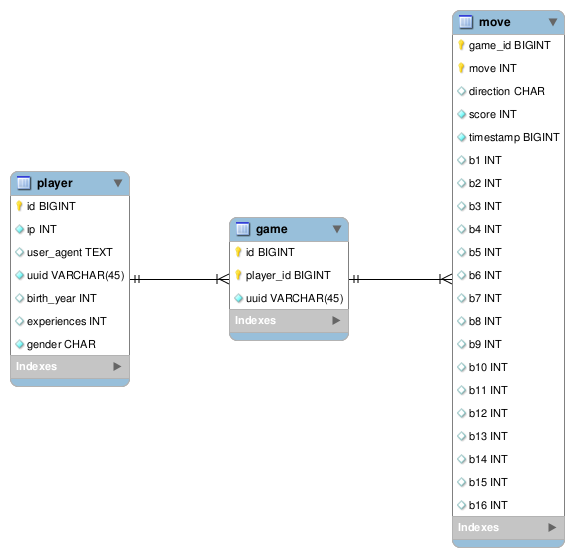
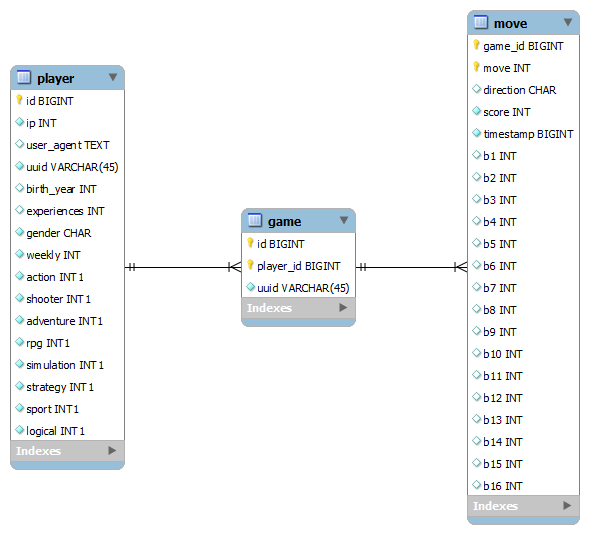
Add record for favorite genres and time spend by gaming

Changed region(s): [[0.0, 0.0, 1.0, 0.9888]]

diff --git a/js/game_manager.js b/js/game_manager.js
@@ -1,12 +1,4 @@
 function GameManager(size, InputManager, Actuator, StorageManager) {
-alert('Funguje:\n' +
-      '	odosielanie noveho hraca na server\n' +
-      '	ziskanie uuid noveho hraca\n' +
-      '	ulozenie/nacitanie hraca, jeho hry, score a pod. lokalne\n' +
-      '	odosielanie hry a tahov na server\n' +
-      '	stopovanie casu za ktory hrac vykonal tah\n' +
-//      'Nefunguje:\n' +
-      '	podpora viacerych hracov\n');
   this.size           = size; // Size of the grid
   this.inputManager   = new InputManager;
   this.storageManager = new StorageManager;
@@ -208,6 +200,8 @@ GameManager.prototype.showPlayerCreator = function () {
   this.p2 = document.createElement("p");
   this.p3 = document.createElement("p");
   this.p4 = document.createElement("p");
+  this.p5 = document.createElement("p");
+  this.p6 = document.createElement("p");
 
   this.p0.style.margin = '20px';
   this.p0.style.color = 'rgb(192,192,192)';
@@ -218,17 +212,42 @@ GameManager.prototype.showPlayerCreator = function () {
   this.p2.addEventListener('mouseout', function() {popdown();}, false);
   this.p3.addEventListener('mouseover', function() {popup('Your gender will be recorded for statistic purpose.');}, false);
   this.p3.addEventListener('mouseout', function() {popdown();}, false);
-  this.p4.addEventListener('mouseover', function() {popup('How many experience do you have with the 2048 game?');}, false);
+  this.p4.addEventListener('mouseover', function() {popup('How much time you spend playing video games weekly?');}, false);
   this.p4.addEventListener('mouseout', function() {popdown();}, false);
+  this.p5.addEventListener('mouseover', function() {popup('Please, select game genres, that you play the most.');}, false);
+  this.p5.addEventListener('mouseout', function() {popdown();}, false);
+  this.p6.addEventListener('mouseover', function() {popup('How many experience do you have with the 2048 game?');}, false);
+  this.p6.addEventListener('mouseout', function() {popdown();}, false);
 
-  this.p0.innerHTML = 'This version of 2048 game was created for the purpose of my Bachelor thesis. Your gameplay will be recorded and analyze. Please, befor you start, tell us something about You:';
+  this.p0.innerHTML = 'This version of 2048 game was created for the purpose of my Bachelor thesis. Your gameplay will be recorded and analyze. Please, before you start, tell us something about You:';
   this.p1.innerHTML = '<b>Your name:</b><br /><input type="text" name="name" placeholder="Your Name" />';
   this.p2.innerHTML = '<b>Your birth year:</b><br /><select name="birth">'+ageOptions+'</select>';
   this.p3.innerHTML = '<b>Gender:</b><br /><select name="gender"> <option value="m">Male</option> <option value="f">Female</option> </select>';
-  this.p4.innerHTML = '<b>Your experience with 2048 game:</b><br /><select name="experience">' +
+  this.p4.innerHTML = '<b>How much time you spend playing videogames weekly:</b><br /><select name="weekly">' + 
+                          '<option value="0">I don\'t play games</option>' +
+                          '<option value="1">Less than 2 hours</option>' +
+                          '<option value="2">Between 2-10 hours</option>' +
+                          '<option value="3">Between 10-20 hours</option>' +
+                          '<option value="4">Between 20-40 hours</option>' +
+                          '<option value="5">More than 40 hours</option> </select>';
+  //4 kolko casu travia hranim
+  //5ake hry hraju
+	  this.p5.innerHTML = '<b>Select your favorite genres:</b><br />' +
+                          '<table style="margin-left:auto; margin-right:auto; text-align:left;">' +
+                          '<tr><td><label><input type="checkbox" name="g0" value="1">Action</label></td>' +
+                          '<td>    <label><input type="checkbox" name="g1" value="1">Shooters</label></td></tr>' +
+                          '<tr><td><label><input type="checkbox" name="g2" value="1">Adventure</label></td>' +
+                          '<td>    <label><input type="checkbox" name="g3" value="1">Role-playing (RPG)</label></td></tr>' +
+                          '<tr><td><label><input type="checkbox" name="g4" value="1">Simulations</label></td>' +
+                          '<td>    <label><input type="checkbox" name="g5" value="1">Strategy</label></td></tr>' +
+                          '<tr><td><label><input type="checkbox" name="g6" value="1">Sports</label></td>' +
+                          '<td>    <label><input type="checkbox" name="g7" value="1">Logical</label></td></tr>' +
+                          '</table>';
+
+  this.p6.innerHTML = '<b>Your experience with 2048 game:</b><br /><select name="experience">' +
                           '<option value="0">[0] I Never hear of it before.</option>' +
-                          '<option value="1">[1] I know it, but newer played it.</option>' +
-                          '<option value="2">[2] I newer made it to 2048.</option>' +
+                          '<option value="1">[1] I know it, but never played it.</option>' +
+                          '<option value="2">[2] I never made it to 2048.</option>' +
                           '<option value="3">[3] I reached 2048 few times.</option>' +
                           '<option value="4">[4] I made it up to 4096 or 8192.</option> </select>';
 //  this.p3.innerHTML = '<b>Your experience with 2048:</b><br /><select name="experience"> <option value="0">0</option> <option value="1">1</option> <option value="2">2</option> <option value="3">3</option> <option value="4">4</option> </select>';
@@ -239,6 +258,8 @@ GameManager.prototype.showPlayerCreator = function () {
   this.form.appendChild(this.p2);
   this.form.appendChild(this.p3);
   this.form.appendChild(this.p4);
+  this.form.appendChild(this.p5);
+  this.form.appendChild(this.p6);
   this.form.appendChild(this.submit);
 } 
 
@@ -247,8 +268,25 @@ GameManager.prototype.submitPlayer = function (e) {
   e.stopPropagation();
 
   gm.showWaiting("Wait a second, creating  new player");
+  
+  var exp = gm.form.elements['experience'].value;
+  var birth = gm.form.elements['birth'].value;
+  var gender = gm.form.elements['gender'].value;
+  var weekly = gm.form.elements['weekly'].value;
+
+  var genres = {
+    'action':          gm.form.elements['g0'].checked,
+    'shooter':         gm.form.elements['g1'].checked,
+    'adventure':       gm.form.elements['g2'].checked,
+    'rpg':             gm.form.elements['g3'].checked,
+    'simulation':      gm.form.elements['g4'].checked,
+    'strategy':        gm.form.elements['g5'].checked,
+    'sport':           gm.form.elements['g6'].checked,
+    'logical':         gm.form.elements['g7'].checked
+  };
+ 
   var ajaxManager = new AjaxManager;
-  ajaxManager.newPlayer(gm.form.elements['experience'].value, gm.form.elements['birth'].value, gm.form.elements['gender'].value);
+  ajaxManager.newPlayer(exp, birth, gender, weekly, genres);
   gm.player = gm.form.elements['name'].value;
 }
 

diff --git a/js/ajax_request_manager.js b/js/ajax_request_manager.js
@@ -25,7 +25,8 @@ function AjaxManager() {
   }
 }
 
-AjaxManager.prototype.newPlayer = function (exp, birth, gender) {
+AjaxManager.prototype.newPlayer = function (exp, birth, gender, weekly, genres) {
+  var genresJSON = JSON.stringify(genres);
   this.playerCreated = false;
   var that = this;
   this.request.onreadystatechange = function(){
@@ -43,7 +44,7 @@ AjaxManager.prototype.newPlayer = function (exp, birth, gender) {
     }
   }
 
-  this.request.open("GET", "/server/?new=player&experience="+exp+"&birth_year="+birth+"&gender="+gender, true);
+  this.request.open("GET", "/server/?new=player&experience="+exp+"&birth_year="+birth+"&gender="+gender+"&weekly="+weekly+"&genres="+encodeURIComponent(genresJSON), true);
   this.request.send();
 
   setTimeout(function() {

diff --git a/server/functions.php b/server/functions.php
@@ -160,7 +160,7 @@ function new_move($game) {
 	return ($affected_rows > 0);
 }
 
-function new_player($birth, $exp, $gender) {
+function new_player($birth, $exp, $gender, $weekly, $genres) {
 	// Create connection
 	$conn = new mysqli(DB_SERVER, DB_USERNAME, DB_PASSWORD, DB_NAME);
 
@@ -185,13 +185,24 @@ function new_player($birth, $exp, $gender) {
 	$stmt->close();
 
 	// prepare and bind
-	$stmt = $conn->prepare("INSERT INTO player (ip, user_agent, uuid, birth_year, experiences, gender) VALUES (?, ?, ?, ?, ?, ?);
+	$stmt = $conn->prepare("INSERT INTO player (ip, user_agent, uuid, birth_year, experiences, gender, weekly, action, shooter, adventure, rpg, simulation, strategy, sport, logical) VALUES (?, ?, ?, ?, ?, ?, ?, ?, ?, ?, ?, ?, ?, ?, ?);
 ");
+
         $ip = ip2long(get_client_ip());
 	$gender = $gender[0];
+
+        $g0 = ($genres['action'] ? 1 : 0);
+        $g1 = ($genres['shooter'] ? 1 : 0);
+        $g2 = ($genres['adventure'] ? 1 : 0);
+        $g3 = ($genres['rpg'] ? 1 : 0);
+        $g4 = ($genres['simulation'] ? 1 : 0);
+        $g5 = ($genres['strategy'] ? 1 : 0);
+        $g6 = ($genres['sport'] ? 1 : 0);
+        $g7 = ($genres['logical'] ? 1 : 0);
+
 	$userAgent = $_SERVER['HTTP_USER_AGENT'];
 
-	$stmt->bind_param("issiis", $ip, $userAgent, $uuid, $birth, $exp, $gender);
+	$stmt->bind_param("issiisiiiiiiiii", $ip, $userAgent, $uuid, $birth, $exp, $gender, $weekly, $g0, $g1, $g2, $g3, $g4, $g5, $g6, $g7);
 	$stmt->execute();
 
 	if($stmt->affected_rows > 0) {

diff --git a/server/index.php b/server/index.php
@@ -45,8 +45,9 @@ if(isset($_GET['new']))
 				}
 				die($message);
 		case 'player':
-				if(isset($_GET['birth_year']) && isset($_GET['experience']) && isset($_GET['gender'])) {
-					$uuid = new_player($_GET['birth_year'], $_GET['experience'], $_GET['gender']);
+				if(isset($_GET['birth_year']) && isset($_GET['experience']) && isset($_GET['gender']) && isset($_GET['weekly']) && isset($_GET['genres'])) {
+					$genres = json_decode(urldecode($_GET['genres']), true);
+					$uuid = new_player($_GET['birth_year'], $_GET['experience'], $_GET['gender'], $_GET['weekly'], $genres);
 					if($uuid != null && $uuid != false) {
 						header("HTTP/1.1 200 OK");
 						$message = $uuid;
